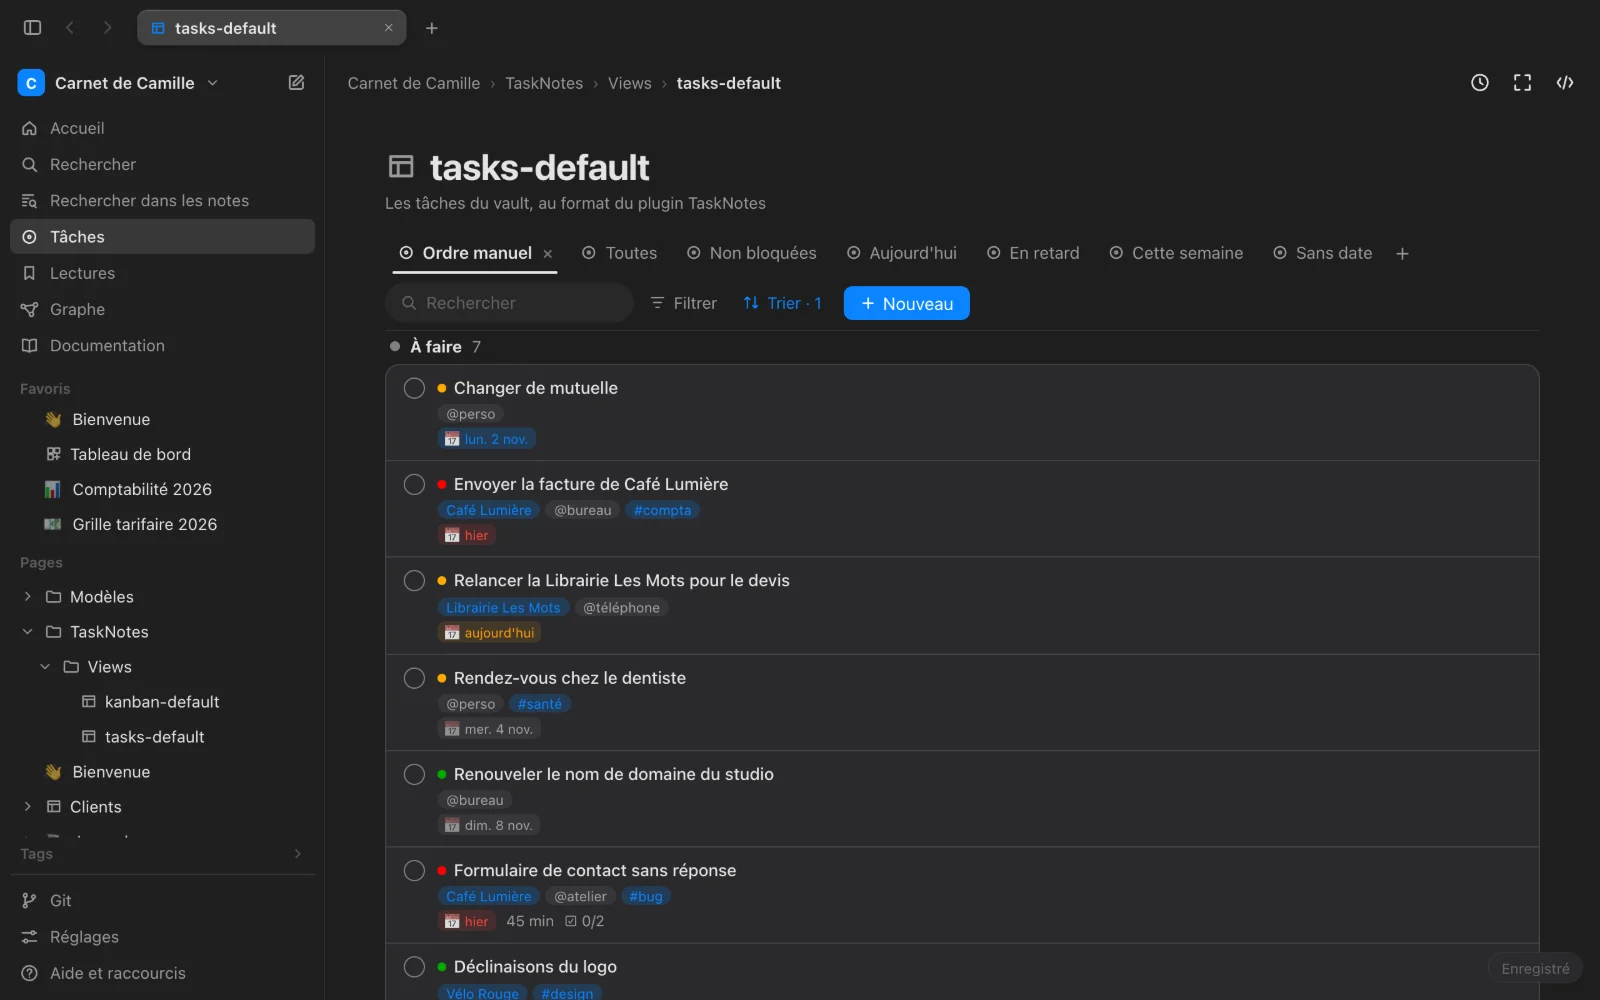
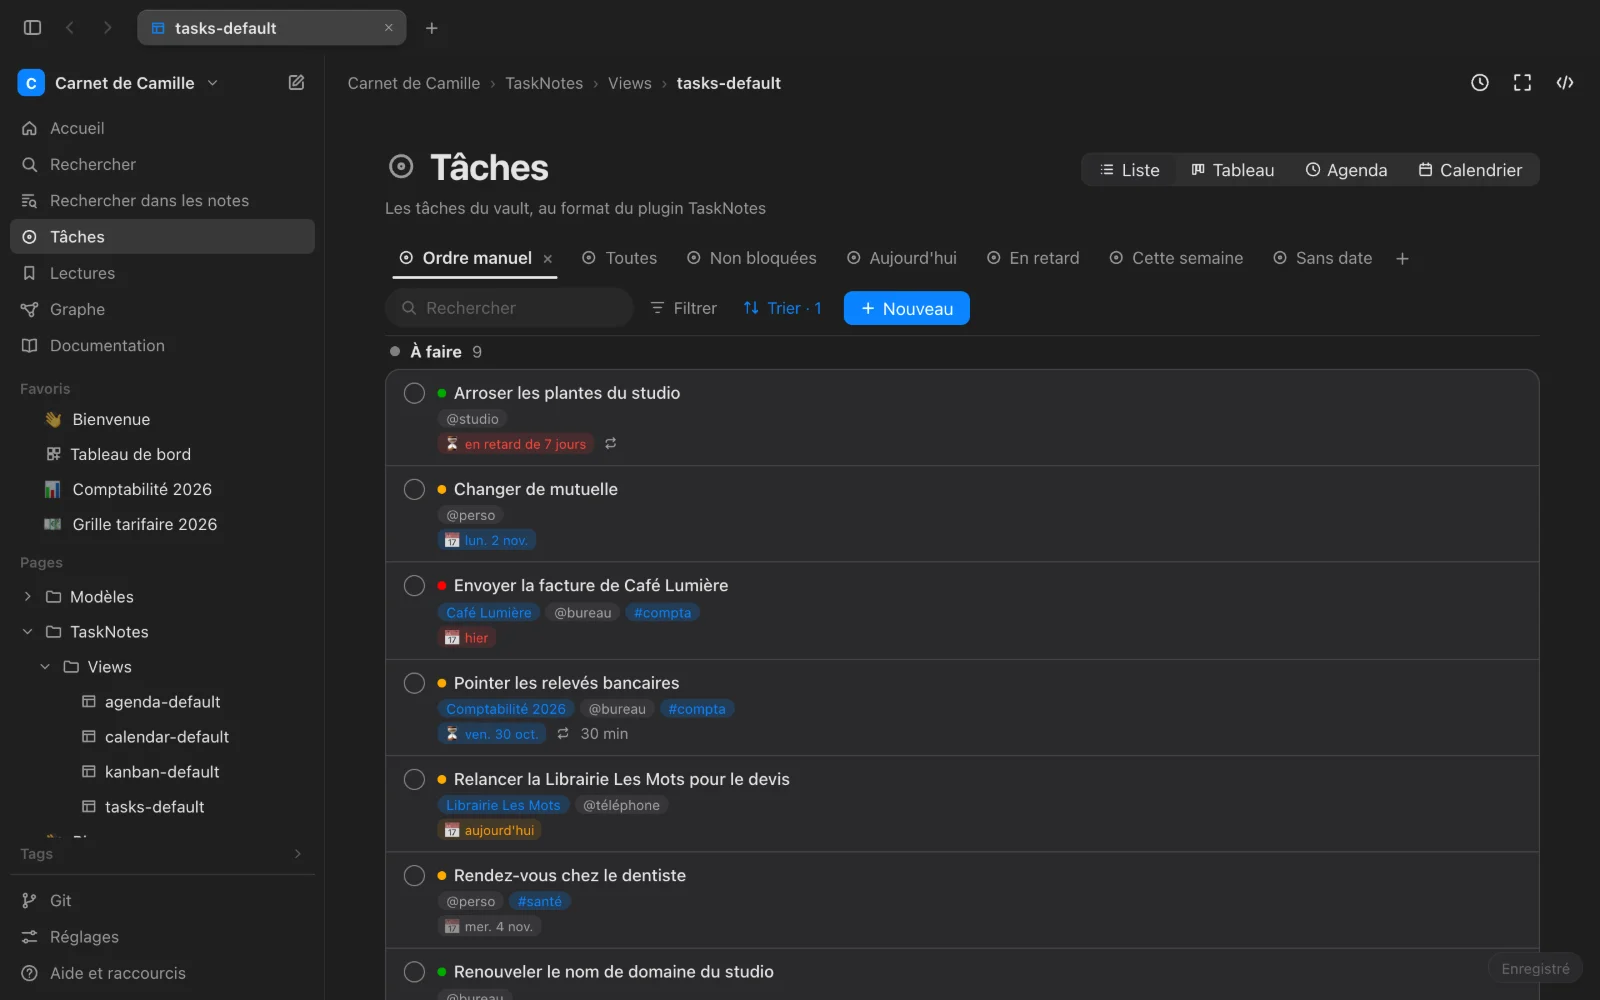
Tâches : projets choisis parmi les notes, passage entre les vues
- Un projet est une note du vault, choisie dans une liste comme dans
  TaskNotes et écrite "[[Note]]".
- Les vues de TaskNotes (liste, tableau, agenda, calendrier) ont un titre
  « Tâches » et un sélecteur pour passer de l'une à l'autre.
- Documentation et captures mises à jour.

diff --git a/src/tasks/TaskView.tsx b/src/tasks/TaskView.tsx
@@ -5,7 +5,8 @@ import type { VaultBridge } from "../editor/bridge";
 import type { Editor } from "@tiptap/core";
 import { Icon } from "../Icon";
 import type { PropertyValue } from "../markdown/frontmatter";
-import { resolveLink } from "../vault/links";
+import { linkTextFor, resolveLink } from "../vault/links";
+import { linkItems } from "../editor/wikilinks";
 import { commentDate, joinTask, serializeComments, splitTask, type TaskComment } from "./comments";
 import { dueLabel, urgency } from "./agenda";
 import { priorityOf, statusOf, type TaskConfig } from "./config";
@@ -198,27 +199,22 @@ function CommentItem({ comment, path, editable, bridge, onChange }: { comment: T
   );
 }
 
-/** A list of chips (tags, contexts, projects) with a field to add one. */
-function ChipsField({ values, prefix = "", label, editable, kind, onChange, onOpen }: { values: string[]; prefix?: string; label: string; editable: boolean; kind?: "project" | "context"; onChange: (values: string[]) => void; onOpen?: (value: string) => void }) {
+/** A list of chips (tags, contexts) with a field to add one. */
+function ChipsField({ values, prefix = "", label, editable, kind, onChange }: { values: string[]; prefix?: string; label: string; editable: boolean; kind?: "context"; onChange: (values: string[]) => void }) {
   const [draft, setDraft] = useState<string | null>(null);
   const add = (text: string) => {
     const clean = text.trim().replace(/^[#@]/, "");
-    const value = kind === "project" && clean && !/^\[\[.*\]\]$/.test(clean) ? `[[${clean}]]` : kind === "project" ? clean : clean.replace(/\s+/g, "-");
+    const value = clean.replace(/\s+/g, "-");
     if (value && !values.includes(value)) onChange([...values, value]);
   };
   return (
     <div className="task-tags">
       {values.map((value) => (
         <span key={value} className={kind ? `task-chip ${kind}` : "task-tag"}>
-          {onOpen ? (
-            <button className="task-chip-open" onClick={() => onOpen(value)}>
-              {linkText(value)}
-            </button>
-          ) : (
-            `${prefix}${linkText(value)}`
-          )}
+          {prefix}
+          {value}
           {editable && (
-            <button aria-label={`Retirer ${linkText(value)}`} onClick={() => onChange(values.filter((v) => v !== value))}>
+            <button aria-label={`Retirer ${value}`} onClick={() => onChange(values.filter((v) => v !== value))}>
               ×
             </button>
           )}
@@ -241,7 +237,7 @@ function ChipsField({ values, prefix = "", label, editable, kind, onChange, onOp
               setDraft(null);
             }}
             onKeyDown={(e) => {
-              if (e.key === "Enter" || (e.key === "," && kind !== "project")) {
+              if (e.key === "Enter" || e.key === ",") {
                 e.preventDefault();
                 add(draft);
                 setDraft("");
@@ -249,6 +245,76 @@ function ChipsField({ values, prefix = "", label, editable, kind, onChange, onOp
               if (e.key === "Escape") setDraft(null);
             }}
           />
+        ))}
+    </div>
+  );
+}
+
+/**
+ * The projects of a task: notes of the vault, chosen in a list as TaskNotes
+ * does (written `"[[Note]]"`, the shortest link Obsidian would write).
+ */
+function ProjectsField({ values, files, editable, onChange, onOpen }: { values: string[]; files: string[]; editable: boolean; onChange: (values: string[]) => void; onOpen: (value: string) => void }) {
+  const [query, setQuery] = useState<string | null>(null);
+  const [active, setActive] = useState(0);
+  const found = query === null ? [] : linkItems(query, files, false).filter((item) => item.path && !values.includes(`[[${linkTextFor(item.path, files)}]]`)).slice(0, 8);
+  const pick = (path: string) => {
+    onChange([...values, `[[${linkTextFor(path, files)}]]`]);
+    setQuery(null);
+  };
+  return (
+    <div className="task-tags">
+      {values.map((value) => (
+        <span key={value} className="task-chip project">
+          <button className="task-chip-open" onClick={() => onOpen(value)} title="Ouvrir la note">
+            {linkText(value)}
+          </button>
+          {editable && (
+            <button aria-label={`Retirer ${linkText(value)}`} onClick={() => onChange(values.filter((v) => v !== value))}>
+              ×
+            </button>
+          )}
+        </span>
+      ))}
+      {editable &&
+        (query === null ? (
+          <button className="task-add" onClick={() => (setQuery(""), setActive(0))}>
+            + projet
+          </button>
+        ) : (
+          <span className="task-picker">
+            <input
+              className="task-tag-input"
+              autoFocus
+              value={query}
+              placeholder="Chercher une note"
+              role="combobox"
+              aria-expanded={found.length > 0}
+              aria-controls="task-project-list"
+              onChange={(e) => (setQuery(e.target.value), setActive(0))}
+              onBlur={() => setQuery(null)}
+              onKeyDown={(e) => {
+                const path = found[active]?.path;
+                if (e.key === "ArrowDown" || e.key === "ArrowUp") {
+                  e.preventDefault();
+                  setActive((active + (e.key === "ArrowDown" ? 1 : found.length - 1)) % Math.max(1, found.length));
+                } else if (e.key === "Enter" && path) {
+                  e.preventDefault();
+                  pick(path);
+                } else if (e.key === "Escape") setQuery(null);
+              }}
+            />
+            {found.length > 0 && (
+              <span className="task-picker-list" id="task-project-list" role="listbox" onMouseDown={(e) => e.preventDefault()}>
+                {found.map((item, i) => (
+                  <button key={item.key} role="option" aria-selected={i === active} className={i === active ? "active" : undefined} onMouseEnter={() => setActive(i)} onClick={() => item.path && pick(item.path)}>
+                    <span>{item.title}</span>
+                    <small>{item.description}</small>
+                  </button>
+                ))}
+              </span>
+            )}
+          </span>
         ))}
     </div>
   );
@@ -430,7 +496,7 @@ export function TaskView({
           </div>
           <div className="task-field">
             <span className="task-field-label">Projets</span>
-            <ChipsField values={info.projects} label="projet" kind="project" editable={editable} onOpen={openProject} onChange={(values) => setField(f.projects, values.length ? values : undefined)} />
+            <ProjectsField values={info.projects} files={bridge.files} editable={editable} onOpen={openProject} onChange={(values) => setField(f.projects, values.length ? values : undefined)} />
           </div>
           <div className="task-field">
             <span className="task-field-label">Contextes</span>

diff --git a/src/base/BaseView.tsx b/src/base/BaseView.tsx
@@ -274,8 +274,8 @@ export interface BaseViewProps {
   loadImage: (path: string) => Promise<string>;
   /** Embedded in a note: no page title, a smaller frame. */
   embedded?: boolean;
-  /** The tasks' settings and their creation, for TaskNotes' views. */
-  tasks?: { config: TaskConfig; onNew: (status?: string) => void };
+  /** The tasks' settings and their creation, for TaskNotes' views; `openView` opens another of its views (created when missing). */
+  tasks?: { config: TaskConfig; onNew: (status?: string) => void; openView?: (view: keyof TaskConfig["views"]) => void };
 }
 
 /**
@@ -286,6 +286,8 @@ export interface BaseViewProps {
  */
 export function BaseView({ vault, files, path, source, editable, onSource, onOpen, onRenameRow, onDeleteRow, onChanged, loadImage, embedded = false, tasks }: BaseViewProps) {
   const parsed = useMemo(() => parseBase(source), [source]);
+  /** Which of TaskNotes' default views this base is (its list, board, agenda or calendar), if any. */
+  const taskViewKey = tasks ? (Object.entries(tasks.config.views).find(([, p]) => p === path)?.[0] as keyof TaskConfig["views"] | undefined) : undefined;
   const { model } = parsed;
   const [rows, setRows] = useState<BaseRow[] | null>(null);
   /** The notes' text, for TaskNotes' views (comments, checkboxes). */
@@ -497,9 +499,24 @@ export function BaseView({ vault, files, path, source, editable, onSource, onOpe
       <div className={embedded ? "db-page embedded" : "db-page"}>
         {!embedded && (
           <header className="db-header">
-            <h1>
-              <Icon name="database" size={26} /> <BaseTitle name={noteTitle(path)} editable={editable} onRename={(name) => onRenameRow(path, name)} />
-            </h1>
+            {taskViewKey && tasks?.openView ? (
+              <div className="task-views-head">
+                <h1>
+                  <Icon name="task" size={26} /> Tâches
+                </h1>
+                <div className="segmented" role="tablist" aria-label="Vues des tâches">
+                  {TASK_VIEWS.map(([key, label, icon]) => (
+                    <button key={key} role="tab" aria-selected={key === taskViewKey} className={key === taskViewKey ? "selected" : ""} onClick={() => key !== taskViewKey && tasks.openView?.(key)}>
+                      <Icon name={icon} size={13} /> {label}
+                    </button>
+                  ))}
+                </div>
+              </div>
+            ) : (
+              <h1>
+                <Icon name="database" size={26} /> <BaseTitle name={noteTitle(path)} editable={editable} onRename={(name) => onRenameRow(path, name)} />
+              </h1>
+            )}
             <p className="dash-muted">{tasks && model.views.some((v) => isTaskView(v.type)) ? "Les tâches du vault, au format du plugin TaskNotes" : model.folder !== null ? `Les pages du dossier « ${model.folder || "racine"} »` : "Toutes les pages du vault"}</p>
           </header>
         )}
@@ -641,3 +658,11 @@ export function BaseView({ vault, files, path, source, editable, onSource, onOpe
 }
 
 const FILE_IDS = FILE_PROPERTIES.map(([p]) => p);
+
+/** TaskNotes' default views, offered side by side. */
+const TASK_VIEWS: [keyof TaskConfig["views"], string, IconName][] = [
+  ["tasks", "Liste", "list"],
+  ["kanban", "Tableau", "board"],
+  ["agenda", "Agenda", "clock"],
+  ["calendar", "Calendrier", "calendar"],
+];

diff --git a/src/styles/tasks.css b/src/styles/tasks.css
@@ -1148,3 +1148,74 @@ body:has(.board.dragging) {
   overflow-wrap: break-word;
   line-height: 1.3;
 }
+
+/* ---- Project picker: notes of the vault under the field ---- */
+
+.task-picker {
+  position: relative;
+  display: inline-flex;
+}
+
+.task-picker-list {
+  position: absolute;
+  top: calc(100% + 4px);
+  left: 0;
+  z-index: 50;
+  display: flex;
+  flex-direction: column;
+  width: 280px;
+  max-width: calc(100vw - 32px);
+  max-height: 280px;
+  overflow-y: auto;
+  padding: 5px;
+  border-radius: 10px;
+  background: var(--menu-material);
+  -webkit-backdrop-filter: var(--material-blur);
+  backdrop-filter: var(--material-blur);
+  box-shadow: var(--shadow-menu);
+}
+
+.task-picker-list button {
+  display: flex;
+  flex-direction: column;
+  align-items: flex-start;
+  gap: 1px;
+  padding: 5px 8px;
+  border: none;
+  border-radius: 6px;
+  background: none;
+  box-shadow: none;
+  color: var(--text);
+  font: inherit;
+  font-size: 13px;
+  text-align: left;
+}
+
+.task-picker-list button.active {
+  background: var(--hover);
+}
+
+.task-picker-list small {
+  color: var(--muted);
+  font-size: 11px;
+}
+
+/* The title of TaskNotes' views, with the switch between them. */
+.task-views-head {
+  display: flex;
+  align-items: center;
+  justify-content: space-between;
+  flex-wrap: wrap;
+  gap: 8px 16px;
+  margin-bottom: 4px;
+}
+
+.task-views-head h1 {
+  margin: 0;
+}
+
+.task-views-head .segmented button {
+  display: inline-flex;
+  align-items: center;
+  gap: 5px;
+}

diff --git a/src/App.tsx b/src/App.tsx
@@ -816,7 +816,12 @@ export function App() {
     await select(path, "push", newTabRequested);
   };
   /** TaskNotes' views in a base: its settings, and a new task in a board column's status. */
-  const baseTasks = useMemo(() => ({ config: taskConfig, onNew: (status?: string) => void newTask(status) }), [taskConfig, newTask]);
+  const taskActions = useRef({ newTask, openTasks });
+  taskActions.current = { newTask, openTasks };
+  const baseTasks = useMemo(
+    () => ({ config: taskConfig, onNew: (status?: string) => void taskActions.current.newTask(status), openView: (view: keyof TaskConfig["views"]) => void taskActions.current.openTasks(view, false) }),
+    [taskConfig],
+  );
 
   const loadImage = useCallback(
     async (path: string) => {

diff --git a/src/docs/documentation.md b/src/docs/documentation.md
@@ -427,12 +427,13 @@ Une tâche est une note au format du plugin Obsidian **TaskNotes** : la même no
 
 ![[tache.webp]]
 
-« Nouvelle tâche » (dans `⌘N`, l'accueil ou la palette `⌘⇧P`) la crée dans le dossier des tâches (`TaskNotes/Tasks` par défaut). En haut de la page, chaque champ se change d'un clic ; « Terminer la tâche » la passe au statut terminé et note la date.
+« Nouvelle tâche » (dans `⌘N`, l'accueil ou la palette `⌘⇧P`) la crée dans le dossier des tâches (`TaskNotes/Tasks` par défaut). En haut de la page, chaque champ se change d'un clic. Un **projet** est une note du vault, choisie dans la liste qui s'ouvre en tapant son nom (comme dans TaskNotes) ; un clic sur le projet ouvre la note. « Terminer la tâche » la passe au statut terminé et note la date.
 
-**Tâches** dans la barre latérale ouvre la liste (`TaskNotes/Views/tasks-default.base`) : groupée par statut, avec les vues de TaskNotes (aujourd'hui, en retard, cette semaine, sans date…). Le rond devant une tâche la termine.
+**Tâches** dans la barre latérale ouvre la liste (`TaskNotes/Views/tasks-default.base`). En haut, **Liste**, **Tableau**, **Agenda** et **Calendrier** passent d'une vue de TaskNotes à l'autre. La liste est groupée par statut, avec les vues de TaskNotes (aujourd'hui, en retard, cette semaine, sans date…). Le rond devant une tâche la termine.
 
 ![[taches-liste.webp]]
- « Ouvrir le tableau des tâches » dans la palette ouvre le **tableau** (`kanban-default.base`) : une colonne par statut, avec glisser-déposer entre les colonnes et dans une colonne.
+
+Le **tableau** (`kanban-default.base`, aussi « Ouvrir le tableau des tâches » dans la palette) a une colonne par statut, avec glisser-déposer entre les colonnes et dans une colonne.
 
 ![[taches-tableau.webp]]
 
